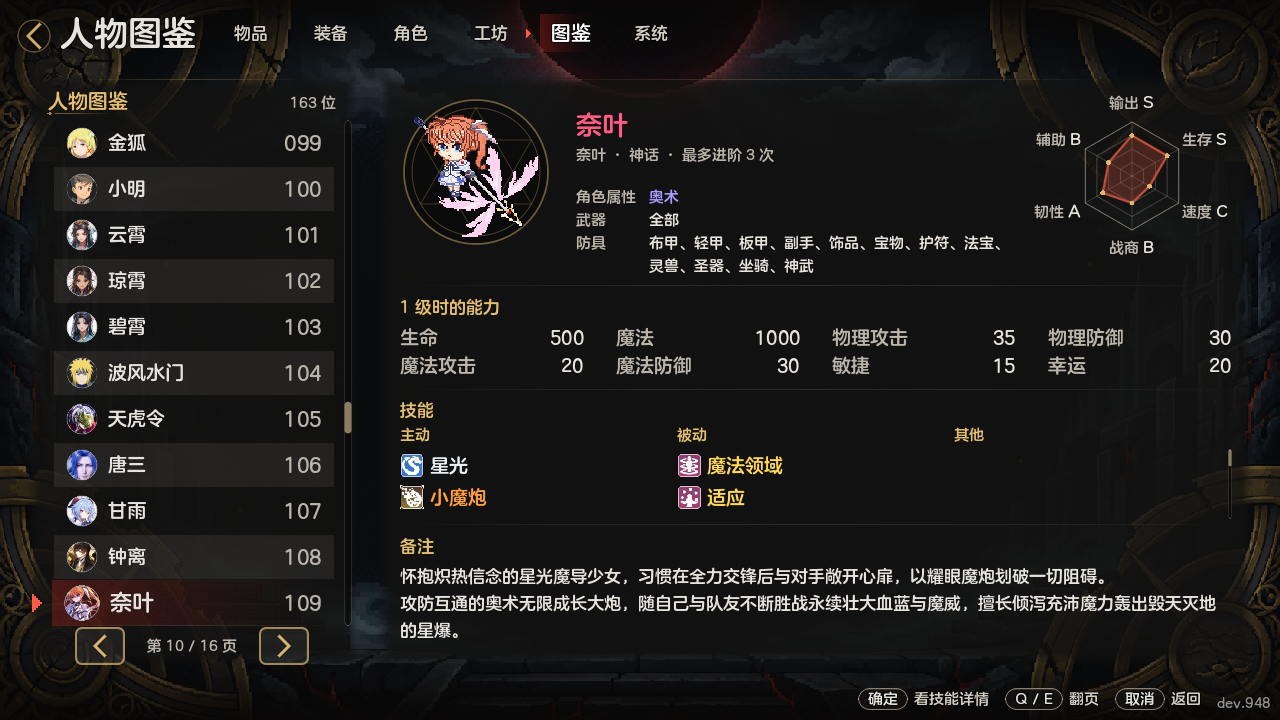
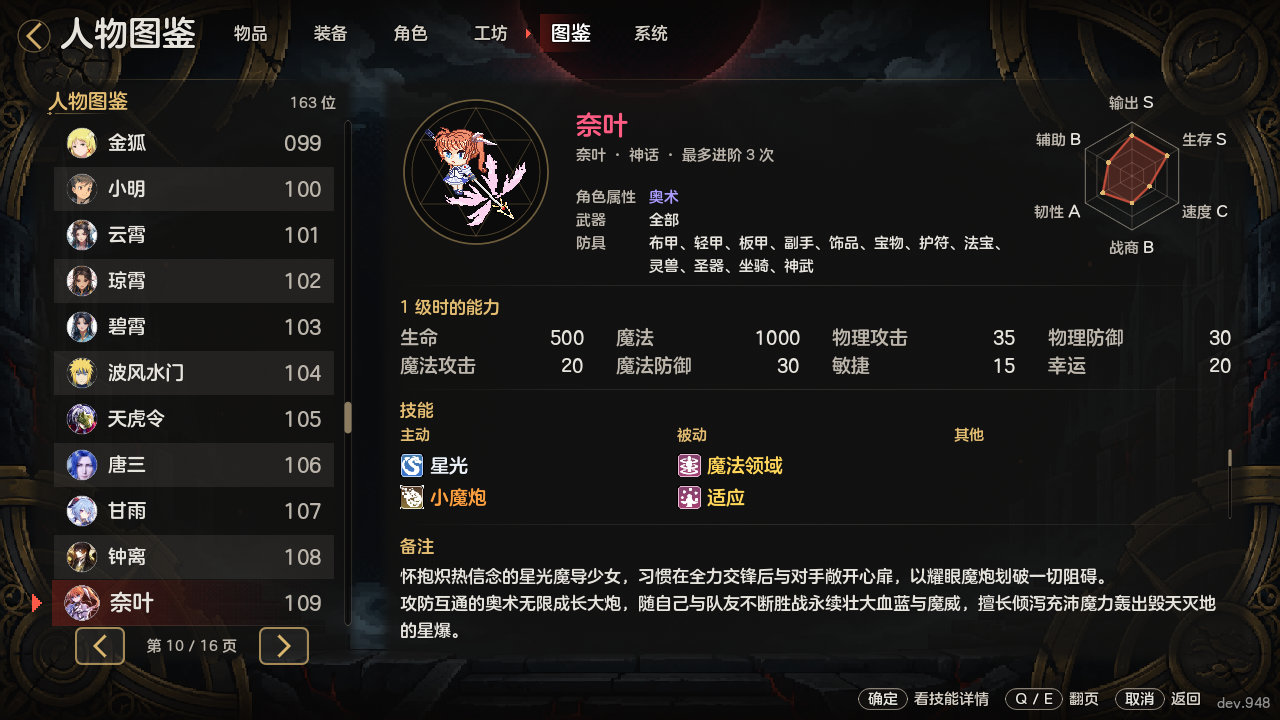
[T554] R2：立绘拟合与专项改按圆判定（不透明像素到圆心），163 位×三帧越圈 0；奈叶、十三娘改前改后截图
执行者: cc
核查: 待审查

Changed region(s): [[0.3125, 0.1528, 0.4375, 0.3361]]

diff --git a/00_项目管理/交付/luiluu_t554.md b/00_项目管理/交付/luiluu_t554.md
@@ -1,18 +1,18 @@
 # 交付：luiluu/t554
 
 - 车道／工作者：cc（claude-opus-5-5＋medium，P8；小A 周额度用完改派）T554 人物图鉴页优化
-- 状态：可合并
+- 状态：可合并（R2 返修：立绘改按圆判定）
 
 ## 变更记录草稿
 
 ## 2026-11-27 【cc·T554·未经审查】天启篇人物图鉴牌头：立绘不出圈、角色属性上色、武器防具分行对齐（dev.待定）
 
 - 依据 Kyo 11-27 反馈（私密仓 协作交接/附图/20261127_图鉴/4～6.png）与事项 84（图鉴改版只改天启篇，西游档不动）。只改新界面图鉴 `XSkinBookPage`；西游档、原版界面风格的旧图鉴页一行不变。
-- 立绘出圈：法阵里的侧视图按「看得见的部分」量（原生图取站立三格不透明像素的外接框，新角色用外观档案框），超出法阵外接方框才缩到 0.86 以内并居中；本来放得下的位置大小不变。全员 163 位扫过，缩的只有小铃兰（帧 256）和奈叶（帧 128）。开关 `XSkinBookPage.FIT_SPRITE`。
+- 立绘出圈：按圆判定——站立三格的不透明像素（逐行取两端，`opaque_rows_of`）画到法阵上，离圆心最远处超出外圈才缩，缩到最远像素落在外圈 0.94 以内（`FIT_R`）并居中稍偏下；本来放得下的位置大小不变。全员 163 位×三帧逐像素扫过，缩的是小铃兰、奈叶、十三娘、玉兔精（改前越圈 127.01／45.97／7.96／0.70 像素），缩后离外圈最近还差 1.51 像素。开关 `XSkinBookPage.FIT_SPRITE`。（R2，小o 核 P2-1：R1 按外接方框判定、缩到方框 0.86，方框四角在圈外，奈叶三帧仍越圈 9.42、十三娘 4.91。）
 - 牌头改三行「角色属性／武器／防具」：标签同宽一列，值从同一竖线起；类型名整个换行不拆字（原来「副／手」被拆），续行对齐值列；掌握特性重复的去重（小铃兰两个「法杖」，35 个职业有重复号）；一类全会写「全部」。角色属性按元素上色，没有写灰字「无」。
 - 「属性」与「角色属性」合并：天启篇牌头不再画原版「属性」（人物属性，旧克制用），只留「角色属性」。依据天启篇元素重做 v0.7「旧克制停用，我方挨打也不看克制」，两行并列只会让人以为是一回事。开关 `XSkinBookPage.HEAD_ROWS`（关＝回到改前一段折行＋白字角色属性）。
 - 「矢」：查实防具类型 13「矢」有一件装备 4541 花与鸟之矢（神器专武，天启篇大厅「强者证明的奖励」能领），167～179 号 12 位能装，所以照列（协调 11-27 定 A）；备好开关 `XSkinBookPage.HIDE_ARMOR_TYPES`（默认空，设 `[13]` 只藏图鉴显示、不动数据），等 Kyo 定。
-- 新专项 `xiyou_tianqi_actor_book_head`（全员立绘扫描、牌头三行数据、去重与「全部」、不拆字、开关关回改前、西游档 actor_info 与改前逐项相等且立绘不缩）。
+- 新专项 `xiyou_tianqi_actor_book_head`（全员立绘逐像素圆判定扫描、牌头三行数据、去重与「全部」、不拆字、开关关回改前、西游档 actor_info 与改前逐项相等且立绘不缩）。
 - 玩家可见：天启篇人物图鉴头像不再出圈；属性一栏只剩带颜色的「角色属性」；武器、防具各占一行排整齐，全会的显示「全部」。
 
 ## 交接板
@@ -40,12 +40,13 @@
 
 ## 验证
 
-- 本机（并行测试）：tianqi_actor_book_head 36/36、ui_skin_card_p 106/106、tianqi_element_effects 101/101、list_pager 151/151、test_mode 83/83、ui_sel_scale 90/90、ui_t366 35/35、tianqi_actor_notes 14/14、actor_book 28/28、actor_book_compare 1/1（工具场景跳过）
+- R2 本机：tianqi_actor_book_head 无头 40/40、带窗口截图 50/50；语法检查 1252 个 .gd 0 个问题
+- R1 本机（并行测试）：tianqi_actor_book_head 36/36、ui_skin_card_p 106/106、tianqi_element_effects 101/101、list_pager 151/151、test_mode 83/83、ui_sel_scale 90/90、ui_t366 35/35、tianqi_actor_notes 14/14、actor_book 28/28、actor_book_compare 1/1（工具场景跳过）
 - 带窗口截图跑（`--audio-driver Dummy`）：48/48
 - 语法检查：1251 个 .gd，0 个问题
 - 发行空壳.py check：0（新函数 `natures_of_actor_id` 登记进 `07_开发环境/发行空壳特例.json`「已确认空值安全」）
 - 工具回归.py：全部通过
-- 云端选测：通过，提交 021a3d3417，12 个场景（选测.py 列出的全部，含 `xiyou_event_compare*` 四个）、3 片，最长一片 3.9 分钟；运行页 https://github.com/luiluu/PlayAgain-xiyou-godot/actions/runs/45927743001（`gh run watch` 前台等完）。之后只在专项里删了 1600×720 截图那两行（窗口没真变宽，拍出来还是 1280×720），只影响带窗口截图，本机无头重跑 36/36
+- R1 云端选测：通过，提交 021a3d3417，12 个场景（选测.py 列出的全部，含 `xiyou_event_compare*` 四个）、3 片，最长一片 3.9 分钟；运行页 https://github.com/luiluu/PlayAgain-xiyou-godot/actions/runs/45927743001（`gh run watch` 前台等完）。之后只在专项里删了 1600×720 截图那两行（窗口没真变宽，拍出来还是 1280×720），只影响带窗口截图，本机无头重跑 36/36
 
 ## 截图（1280×720 原尺寸）
 
@@ -53,11 +54,13 @@
 
 - 小铃兰：`00_项目管理/归档/交付截图/luiluu_t554/t554_before_127_16x9.png` → `00_项目管理/归档/交付截图/luiluu_t554/t554_after_127_16x9.png`
 - 宿傩（矢照列、防具「全部」、角色属性「无」）：`00_项目管理/归档/交付截图/luiluu_t554/t554_before_172_16x9.png` → `00_项目管理/归档/交付截图/luiluu_t554/t554_after_172_16x9.png`
-- 奈叶（第二个出圈的）：`00_项目管理/归档/交付截图/luiluu_t554/t554_before_108_16x9.png` → `00_项目管理/归档/交付截图/luiluu_t554/t554_after_108_16x9.png`
+- 十三娘（R2 新缩的）：`00_项目管理/归档/交付截图/luiluu_t554/t554_before_78_16x9.png` → `00_项目管理/归档/交付截图/luiluu_t554/t554_after_78_16x9.png`
+- 奈叶（R2 重拍）：`00_项目管理/归档/交付截图/luiluu_t554/t554_before_108_16x9.png` → `00_项目管理/归档/交付截图/luiluu_t554/t554_after_108_16x9.png`
 - 1 号狗逍遥（本来放得下，立绘不变）：`00_项目管理/归档/交付截图/luiluu_t554/t554_before_1_16x9.png` → `00_项目管理/归档/交付截图/luiluu_t554/t554_after_1_16x9.png`
 
 ## 本分支提交
 
 - 02350cf5b WIP：天启篇人物图鉴牌头＋专项
 - 021a3d341 立绘缩放留余量 0.86、发行空壳登记、交付单与截图
+- R2：立绘改按圆判定、专项圆判定全员复测、奈叶十三娘截图
 - （本条交付单定稿提交见 git log）
